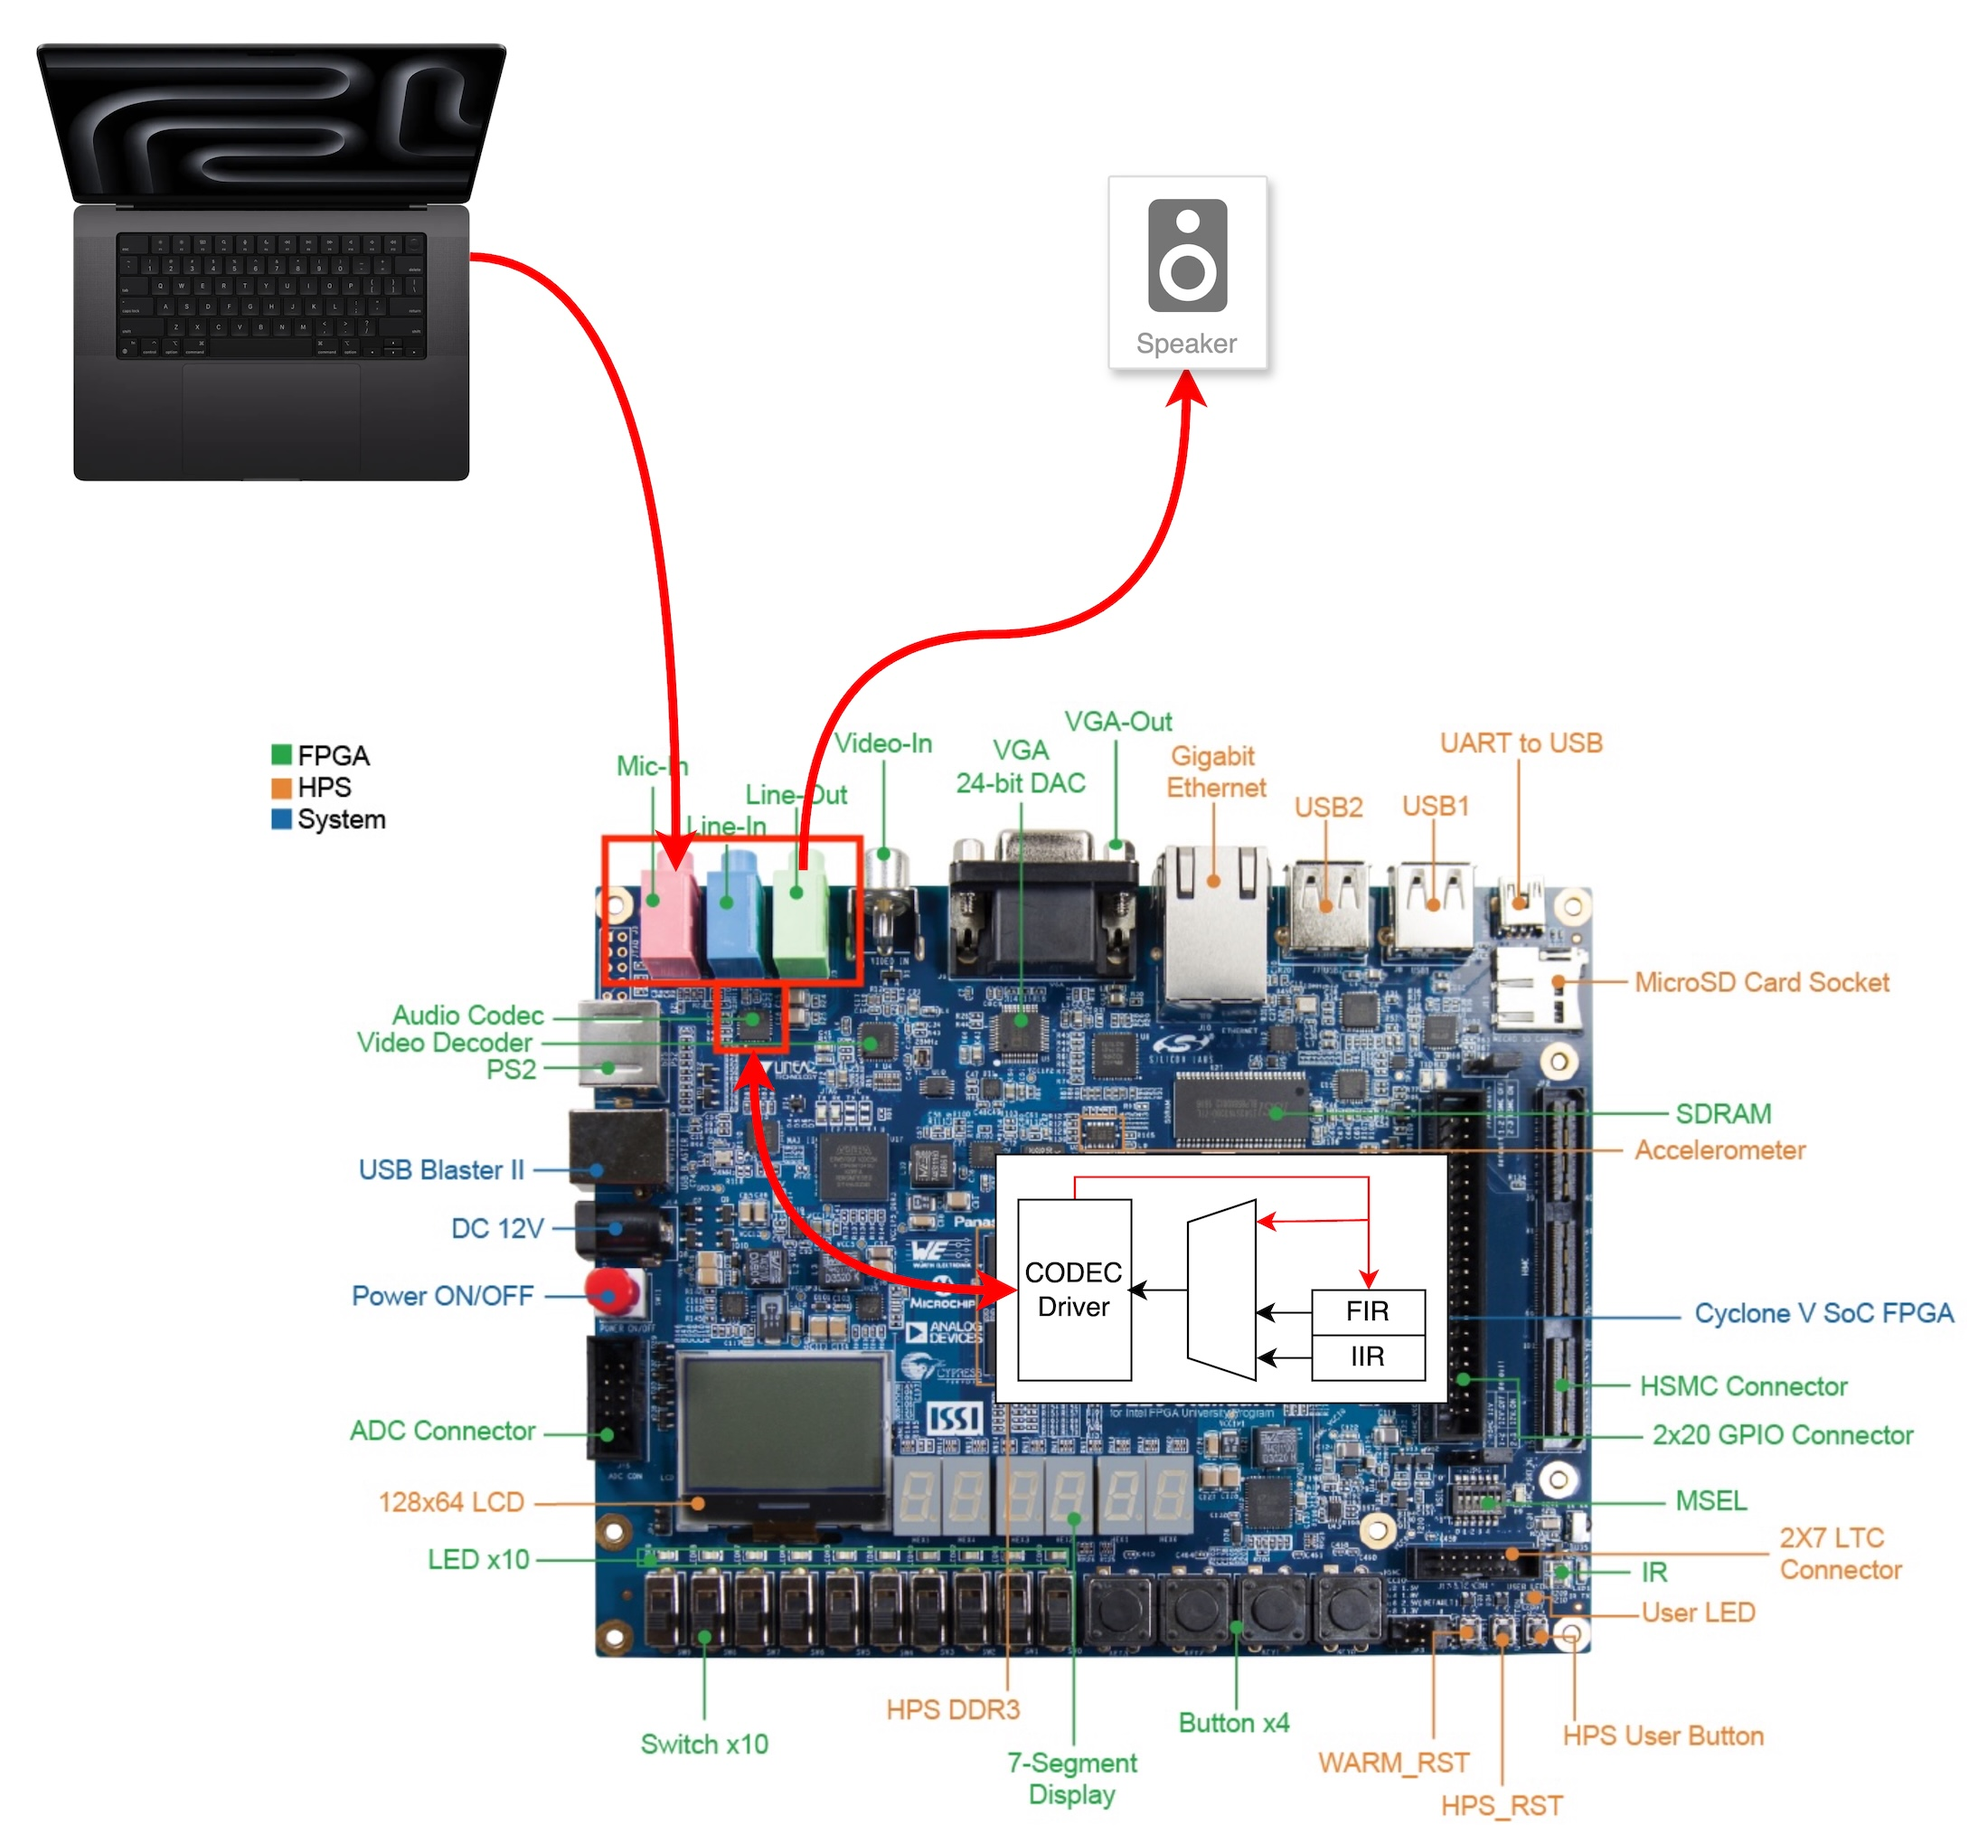
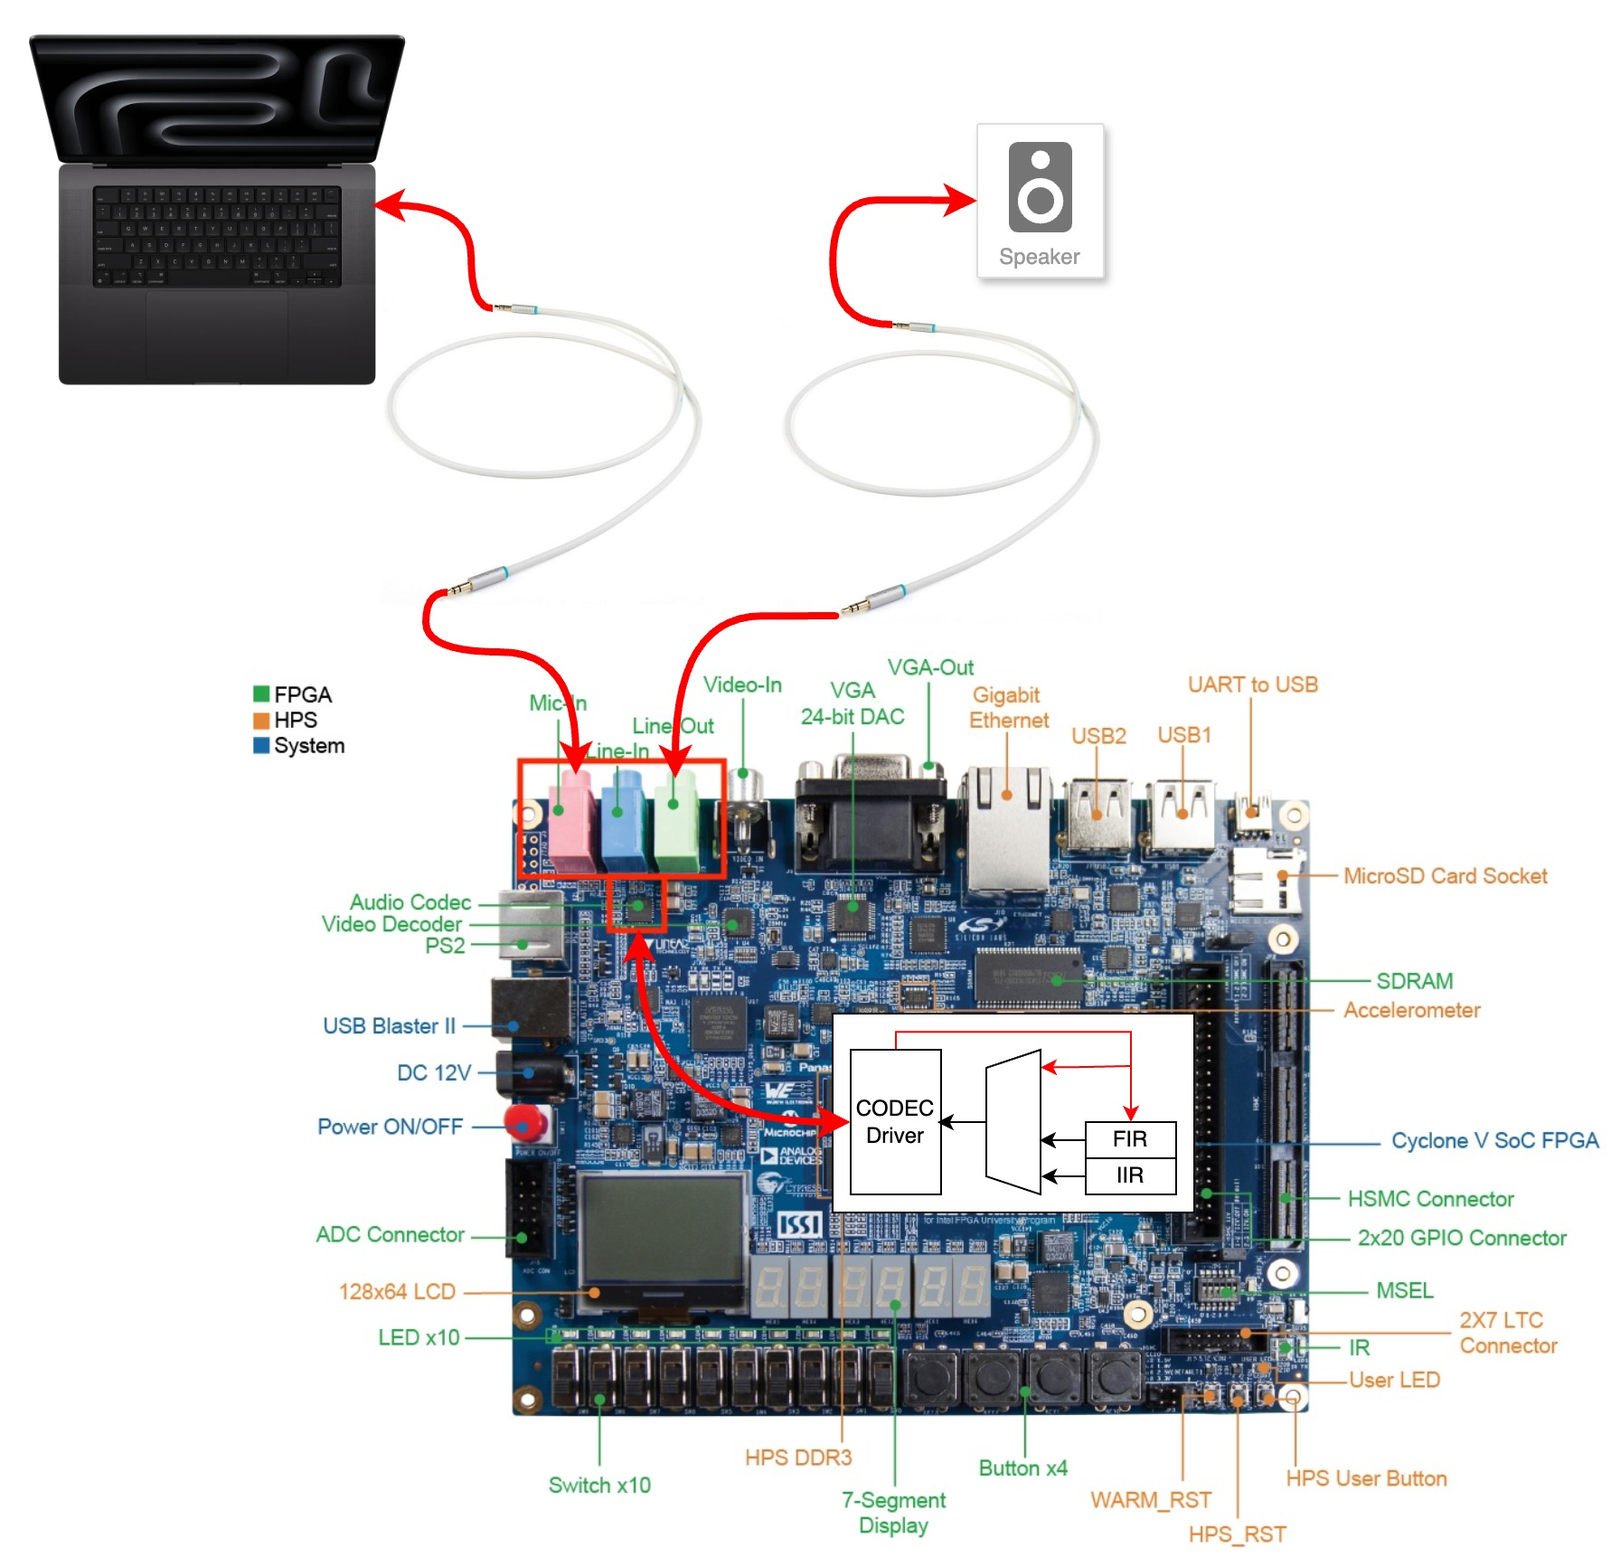
Update Guides

diff --git a/Lab3/README.md b/Lab3/README.md
@@ -52,7 +52,9 @@ If you're aiming for a high grade, you’ll need to implement your design on the
 
 - **Demonstrate the basic functionality of your equalizer**, showing that each band (bass, mid, and treble) can be adjusted individually.
 - **Provide a method for adjusting the bands** in real-time. This can be done using the DE10 board’s switches and keys or, for a more advanced solution, through a program on your computer that communicates with the FPGA, allowing you to adjust the frequency bands dynamically.
-- **Perform a live audio test** by playing an audio sample from an external device (e.g., laptop or phone) connected to the DE10 board’s microphone jack. Pass this audio through your equalizer, outputting the modified audio to a speaker so that the effect of each band adjustment on the sound can be clearly heard. This demonstration should highlight the real-time performance and audio quality of your equalizer design.
+- **Perform a live audio test** by playing an audio sample from an external device (e.g., laptop or phone) connected to the DE10 board’s microphone jack. Pass this audio through your equalizer, outputting the modified audio to a speaker so that the effect of each band adjustment on the sound can be clearly heard. This demonstration should highlight the real-time performance and audio quality of your equalizer design. You could use the 3.5mm to 3.5mm audio cable to connect the audio output of your laptop to the audio input of the DE10 board. The audio output of the DE10 board can be connected to a speaker.
+
+![auxcable](./images/cable.png)
 
 ## For Credit
 

diff --git a/Lab2/README.md b/Lab2/README.md
@@ -81,8 +81,11 @@ To achieve a high grade, you must implement your design on the FPGA using the DE
    - Process the noisy audio signal through your filters to produce a clean, filtered output.  
    - Play the filtered audio through a speaker to demonstrate the effectiveness of your filters.  
    - Choose an audio sample that clearly highlights the difference between the noisy and filtered versions. 
+   - You could use the 3.5mm to 3.5mm audio cable to connect the audio output of your laptop to the audio input of the DE10 board. The audio output of the DE10 board can be connected to a speaker.
+  
+   ![auxcable](./images/cable.png)
 
-   ![](./images/schem_audio.jpg) 
+   ![](./images/schem_audio.jpg)
 
 
 ## For Credit

diff --git a/README.md b/README.md
@@ -33,8 +33,6 @@ We want to see you succeed, but you have to ask for help.
 
 ## Project Overview
 
-Some part of the big project is **Simulation** only, however, your synthesis result on Quartus for the DE10 Kit still affects your credit, so code should be synthesizable to resources/timing.
-
 - [Part 1: Waveform Generator](./Lab1/README.md)
 - [Part 2: FIR and IIR Filters](./Lab2/README.md)
 - [Part 3: Audio Equalizer](./Lab3/README.md)
